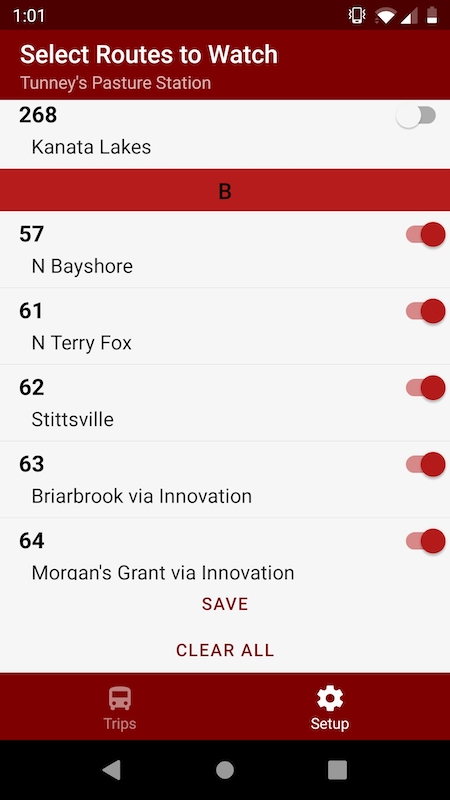
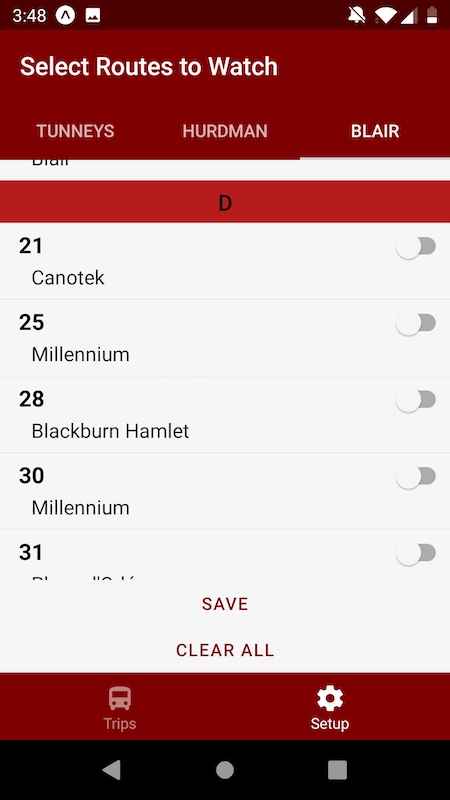
Update with Hurdman and Blair

diff --git a/OCTrainsfer.md b/OCTrainsfer.md
@@ -4,7 +4,7 @@
 
 ## Make transfering from the train less of a pain!
 
-Do you have several different routes you can take at Tunney's Pasture? 
+Do you have several different routes you can take when you get off the train? 
 Hate seeing a bus you could have taken go by because you chose the wrong stop?
 Open up OC Trainsfer just before arriving at the station, and it will
 call the OC Transpo GPS feed to get the next few trips for the routes 
@@ -12,7 +12,9 @@ you've chosen to watch.
 
 <a href='https://play.google.com/store/apps/details?id=com.lgaud.octrainsfer&pcampaignid=MKT-Other-global-all-co-prtnr-py-PartBadge-Mar2515-1'><img alt='Get it on Google Play' src='https://play.google.com/intl/en_us/badges/images/generic/en_badge_web_generic.png' height="auto" width="240px"/></a>
 
-The first release is specific to Tunney's Pasture, but Hurdman and Blair are coming soon!
+This app works at the major transfer points from the O Train Confederation Line - Tunney's Pasture, Hurdman, and Blair.
+
+
 
 # See all your upcoming connections at a glance
 ![Screenshot of Trips page](images/trips.jpg)
@@ -20,6 +22,8 @@ The first release is specific to Tunney's Pasture, but Hurdman and Blair are com
 # Easily select the routes you care about
 ![Screenshot of Setup page](images/routes.jpg)
 
+### Limitations:
+This app relies on OC Transpo’s live feed, which sometimes goes down and generally only has schedule data for routes starting at the station. It also doesn’t provide the stop letter; this is matched to other OC Transpo provided data. In the event of a discrepancy, information at the station is more likely to be correct. This is a side project with no intention for monetary gain - no ads, no data collection, and no warranties or guarantees of support. 
 
 Google Play and the Google Play logo are trademarks of Google LLC.
 
